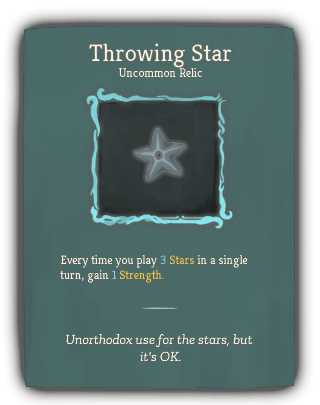
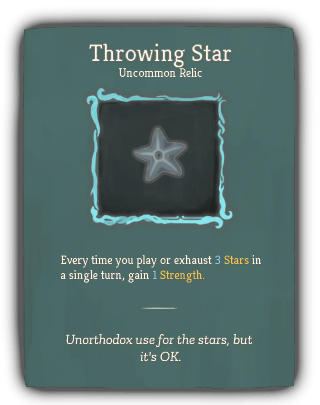
fijiojgorjg

Changed region(s): [[0.1875, 0.6222, 0.8125, 0.7111]]

diff --git a/vexMod/index.html b/vexMod/index.html
@@ -1235,7 +1235,7 @@ When you die or win, @DBotling tweets about your run.</td>
     <td><a href="relics/popup/InvisibilityCloak.png">Invisible Cloak</a></td>
     <td><img src="relics/InvisibilityCloak.png" width="128" height="128"><a href="relics/popup/InvisibilityCloak.png"><img src="relics/small-popup/InvisibilityCloak.png" class="popup"></a></td>
     <td>Uncommon</td>
-    <td>Green</td>
+    <td></td>
     <td>At the start of each combat, ALL enemies lose <span class="color-b">1</span> <span class="color-y">Strength.</span></td>
     <td>You're far too modest to "wear" this.</td>
   </tr>
@@ -1308,7 +1308,7 @@ When you die or win, @DBotling tweets about your run.</td>
     <td><img src="relics/ThrowingStar.png" width="128" height="128"><a href="relics/popup/ThrowingStar.png"><img src="relics/small-popup/ThrowingStar.png" class="popup"></a></td>
     <td>Uncommon</td>
     <td>Astrologer</td>
-    <td>Every time you play <span class="color-b">3</span> <span class="color-y">Stars</span> in a single turn, gain <span class="color-b">1</span> <span class="color-y">Strength.</span></td>
+    <td>Every time you play or exhaust <span class="color-b">3</span> <span class="color-y">Stars</span> in a single turn, gain <span class="color-b">1</span> <span class="color-y">Strength.</span></td>
     <td>Unorthodox use for the stars, but it's OK.</td>
   </tr>
   
@@ -1800,7 +1800,7 @@ High Score: 0</td>
     <td>Boss</td>
     <td></td>
     <td>Gain [E] at the start of your turn. Upon pickup, obtain <span class="color-b">666</span> <span class="color-y">Gold</span> and a random <span class="color-r">Blight.</span></td>
-    <td>Holding it fills you with terror. Your only goal is to lose it yet it always winds up back in your pocket.</td>
+    <td>Holding it fills you with terror. Your drop it, but it writhes back into your pocket.</td>
   </tr>
   
   <tr>

diff --git a/vexMod/relics.html b/vexMod/relics.html
@@ -292,7 +292,7 @@ When you die or win, @DBotling tweets about your run.</td>
     <td><a href="relics/popup/InvisibilityCloak.png">Invisible Cloak</a></td>
     <td><img src="relics/InvisibilityCloak.png" width="128" height="128"><a href="relics/popup/InvisibilityCloak.png"><img src="relics/small-popup/InvisibilityCloak.png" class="popup"></a></td>
     <td>Uncommon</td>
-    <td>Green</td>
+    <td></td>
     <td>At the start of each combat, ALL enemies lose <span class="color-b">1</span> <span class="color-y">Strength.</span></td>
     <td>You're far too modest to "wear" this.</td>
   </tr>
@@ -365,7 +365,7 @@ When you die or win, @DBotling tweets about your run.</td>
     <td><img src="relics/ThrowingStar.png" width="128" height="128"><a href="relics/popup/ThrowingStar.png"><img src="relics/small-popup/ThrowingStar.png" class="popup"></a></td>
     <td>Uncommon</td>
     <td>Astrologer</td>
-    <td>Every time you play <span class="color-b">3</span> <span class="color-y">Stars</span> in a single turn, gain <span class="color-b">1</span> <span class="color-y">Strength.</span></td>
+    <td>Every time you play or exhaust <span class="color-b">3</span> <span class="color-y">Stars</span> in a single turn, gain <span class="color-b">1</span> <span class="color-y">Strength.</span></td>
     <td>Unorthodox use for the stars, but it's OK.</td>
   </tr>
   
@@ -857,7 +857,7 @@ High Score: 0</td>
     <td>Boss</td>
     <td></td>
     <td>Gain [E] at the start of your turn. Upon pickup, obtain <span class="color-b">666</span> <span class="color-y">Gold</span> and a random <span class="color-r">Blight.</span></td>
-    <td>Holding it fills you with terror. Your only goal is to lose it yet it always winds up back in your pocket.</td>
+    <td>Holding it fills you with terror. Your drop it, but it writhes back into your pocket.</td>
   </tr>
   
   <tr>

diff --git a/vexMod/index.md b/vexMod/index.md
@@ -137,7 +137,7 @@
 | ![](relics/FocusSash.png) | Focus Sash | Uncommon |  | When you would die while you have at least #b10 HP, heal to #b1 HP instead. | It's super effective! |
 | ![](relics/SolarSystemDiorama.png) | Galaxy Diorama | Uncommon | Astrologer | The additional effects of your #ySolar and #yLunar cards are always active. | Wholly innacurate. |
 | ![](relics/GoldBooster.png) | Gilded Shrine | Uncommon |  | Whenever you add a card into your deck, gain #b7 #yGold. | Molten gold pours endlessly down the shrine. |
-| ![](relics/InvisibilityCloak.png) | Invisible Cloak | Uncommon | Green | At the start of each combat, ALL enemies lose #b1 #yStrength. | You're far too modest to "wear" this. |
+| ![](relics/InvisibilityCloak.png) | Invisible Cloak | Uncommon |  | At the start of each combat, ALL enemies lose #b1 #yStrength. | You're far too modest to "wear" this. |
 | ![](relics/KeyChain.png) | Key Chain | Uncommon |  | When you play your first targeted #yAttack each combat, the enemy loses #yStrength equal to damage taken until the end of this turn. | Surprisingly sharp! |
 | ![](relics/MadnessLens.png) | Madness Lens | Uncommon |  | At the start of each combat, reduce the cost of a random card in your hand to #b0 this combat. | The Spire looks like a hellish, twisting wasteland through this glass. |
 | ![](relics/ProtectorBot.png) | Protector Bot | Uncommon |  | Whenever you play #b2 or less cards during your turn, gain #b5 #yBlock at the end of the turn. | This little bot dives in to take attacks when you're wide open. |
@@ -145,7 +145,7 @@
 | ![](relics/ShiftingSkin.png) | Shifting Skin | Uncommon |  | At the start of each combat, gain #b1 stack of ANY random #gbuff. | Your body flows fluidly, changing to adapt to each situation... |
 | ![](relics/HeadHunter.png) | Skull Hunter | Uncommon |  | Elites drop an additional Rare card reward. | You're bringing this conflict to a head. |
 | ![](relics/ThirteenHourStone.png) | Thirteen-Hour Stone | Uncommon |  | Every time you you draw #b13 cards, draw #b1 card. | Number nine is the most important. |
-| ![](relics/ThrowingStar.png) | Throwing Star | Uncommon | Astrologer | Every time you play #b3 #yStars in a single turn, gain #b1 #yStrength. | Unorthodox use for the stars, but it's OK. |
+| ![](relics/ThrowingStar.png) | Throwing Star | Uncommon | Astrologer | Every time you play or exhaust #b3 #yStars in a single turn, gain #b1 #yStrength. | Unorthodox use for the stars, but it's OK. |
 | ![](relics/MagicMissile.png) | Wand of Magic Missile | Uncommon |  | Whenever you shuffle your draw pile, deal #b2-5 damage to a random enemy #b3 times. | The end of this magic wand glows. |
 | ![](relics/AudienceDoll.png) | Audience Doll | Rare | Bard_color | Whenever you perform a #ybard:Melody, draw #b1 card. | Always there to listen and offer support! |
 | ![](relics/CardConverter.png) | Box of Bandaids | Rare |  | Whenever you add a card into your deck, heal #b3 HP. | Vends only when shown cool techniques. |
@@ -199,7 +199,7 @@
 | ![](relics/Demotivationator.png) | Demotivationator | Boss | Bard_color | Gain [E] and #ybard:Inspiration #b-50 at the start of your turn. | "ALL the people in the Tri-State Area will be too lazy to work! MWAHAHAHA!" |
 | ![](relics/DeviousBotling.png) | Devious Botling | Boss |  | Gain [E] at the start of your turn. Torments you randomly in annoying ways. Insults you on Twitter when you die. | A tiny little mini-bot whose prime directive is to mess with people. Twitter at @DBotling. |
 | ![](relics/EndlessSickness.png) | Endless Sickness | Boss |  | Gain [E] at the start of your turn. At the start of each combat, shuffle a #rVirus into your draw pile. | Always multiplying. |
-| ![](relics/RockOfEvil.png) | Horrorstone | Boss |  | Gain [E] at the start of your turn. Upon pickup, obtain #b666 #yGold and a random #rBlight. | Holding it fills you with terror. Your only goal is to lose it yet it always winds up back in your pocket. |
+| ![](relics/RockOfEvil.png) | Horrorstone | Boss |  | Gain [E] at the start of your turn. Upon pickup, obtain #b666 #yGold and a random #rBlight. | Holding it fills you with terror. Your drop it, but it writhes back into your pocket. |
 | ![](relics/ImprovementManual.png) | Improvement Manual | Boss |  | Upon pickup, #yUpgrade #b4 cards. | Ahh, so THAT's how you make a card Innate! |
 | ![](relics/IndestructableDeckBox.png) | Indestructible Card Box | Boss | Poker_player_gray | Replaces [#404646ff]Deck[] [#404646ff]Case[][#404646ff].[] NL #yCurse and #yStatus cards cannot enter your deck or draw pile. | The only way to truly keep your cards tricks safe. |
 | ![](relics/MallPass.png) | Mall Pass | Boss |  | ALL #y? rooms contain The Merchant. Whenever you encounter The Merchant, gain #b50 #yGold. | Now you can get the great discounts! |

diff --git a/vexMod/relics.md b/vexMod/relics.md
@@ -30,7 +30,7 @@
 | ![](relics/FocusSash.png) | Focus Sash | Uncommon |  | When you would die while you have at least #b10 HP, heal to #b1 HP instead. | It's super effective! |
 | ![](relics/SolarSystemDiorama.png) | Galaxy Diorama | Uncommon | Astrologer | The additional effects of your #ySolar and #yLunar cards are always active. | Wholly innacurate. |
 | ![](relics/GoldBooster.png) | Gilded Shrine | Uncommon |  | Whenever you add a card into your deck, gain #b7 #yGold. | Molten gold pours endlessly down the shrine. |
-| ![](relics/InvisibilityCloak.png) | Invisible Cloak | Uncommon | Green | At the start of each combat, ALL enemies lose #b1 #yStrength. | You're far too modest to "wear" this. |
+| ![](relics/InvisibilityCloak.png) | Invisible Cloak | Uncommon |  | At the start of each combat, ALL enemies lose #b1 #yStrength. | You're far too modest to "wear" this. |
 | ![](relics/KeyChain.png) | Key Chain | Uncommon |  | When you play your first targeted #yAttack each combat, the enemy loses #yStrength equal to damage taken until the end of this turn. | Surprisingly sharp! |
 | ![](relics/MadnessLens.png) | Madness Lens | Uncommon |  | At the start of each combat, reduce the cost of a random card in your hand to #b0 this combat. | The Spire looks like a hellish, twisting wasteland through this glass. |
 | ![](relics/ProtectorBot.png) | Protector Bot | Uncommon |  | Whenever you play #b2 or less cards during your turn, gain #b5 #yBlock at the end of the turn. | This little bot dives in to take attacks when you're wide open. |
@@ -38,7 +38,7 @@
 | ![](relics/ShiftingSkin.png) | Shifting Skin | Uncommon |  | At the start of each combat, gain #b1 stack of ANY random #gbuff. | Your body flows fluidly, changing to adapt to each situation... |
 | ![](relics/HeadHunter.png) | Skull Hunter | Uncommon |  | Elites drop an additional Rare card reward. | You're bringing this conflict to a head. |
 | ![](relics/ThirteenHourStone.png) | Thirteen-Hour Stone | Uncommon |  | Every time you you draw #b13 cards, draw #b1 card. | Number nine is the most important. |
-| ![](relics/ThrowingStar.png) | Throwing Star | Uncommon | Astrologer | Every time you play #b3 #yStars in a single turn, gain #b1 #yStrength. | Unorthodox use for the stars, but it's OK. |
+| ![](relics/ThrowingStar.png) | Throwing Star | Uncommon | Astrologer | Every time you play or exhaust #b3 #yStars in a single turn, gain #b1 #yStrength. | Unorthodox use for the stars, but it's OK. |
 | ![](relics/MagicMissile.png) | Wand of Magic Missile | Uncommon |  | Whenever you shuffle your draw pile, deal #b2-5 damage to a random enemy #b3 times. | The end of this magic wand glows. |
 | ![](relics/AudienceDoll.png) | Audience Doll | Rare | Bard_color | Whenever you perform a #ybard:Melody, draw #b1 card. | Always there to listen and offer support! |
 | ![](relics/CardConverter.png) | Box of Bandaids | Rare |  | Whenever you add a card into your deck, heal #b3 HP. | Vends only when shown cool techniques. |
@@ -92,7 +92,7 @@
 | ![](relics/Demotivationator.png) | Demotivationator | Boss | Bard_color | Gain [E] and #ybard:Inspiration #b-50 at the start of your turn. | "ALL the people in the Tri-State Area will be too lazy to work! MWAHAHAHA!" |
 | ![](relics/DeviousBotling.png) | Devious Botling | Boss |  | Gain [E] at the start of your turn. Torments you randomly in annoying ways. Insults you on Twitter when you die. | A tiny little mini-bot whose prime directive is to mess with people. Twitter at @DBotling. |
 | ![](relics/EndlessSickness.png) | Endless Sickness | Boss |  | Gain [E] at the start of your turn. At the start of each combat, shuffle a #rVirus into your draw pile. | Always multiplying. |
-| ![](relics/RockOfEvil.png) | Horrorstone | Boss |  | Gain [E] at the start of your turn. Upon pickup, obtain #b666 #yGold and a random #rBlight. | Holding it fills you with terror. Your only goal is to lose it yet it always winds up back in your pocket. |
+| ![](relics/RockOfEvil.png) | Horrorstone | Boss |  | Gain [E] at the start of your turn. Upon pickup, obtain #b666 #yGold and a random #rBlight. | Holding it fills you with terror. Your drop it, but it writhes back into your pocket. |
 | ![](relics/ImprovementManual.png) | Improvement Manual | Boss |  | Upon pickup, #yUpgrade #b4 cards. | Ahh, so THAT's how you make a card Innate! |
 | ![](relics/IndestructableDeckBox.png) | Indestructible Card Box | Boss | Poker_player_gray | Replaces [#404646ff]Deck[] [#404646ff]Case[][#404646ff].[] NL #yCurse and #yStatus cards cannot enter your deck or draw pile. | The only way to truly keep your cards tricks safe. |
 | ![](relics/MallPass.png) | Mall Pass | Boss |  | ALL #y? rooms contain The Merchant. Whenever you encounter The Merchant, gain #b50 #yGold. | Now you can get the great discounts! |
